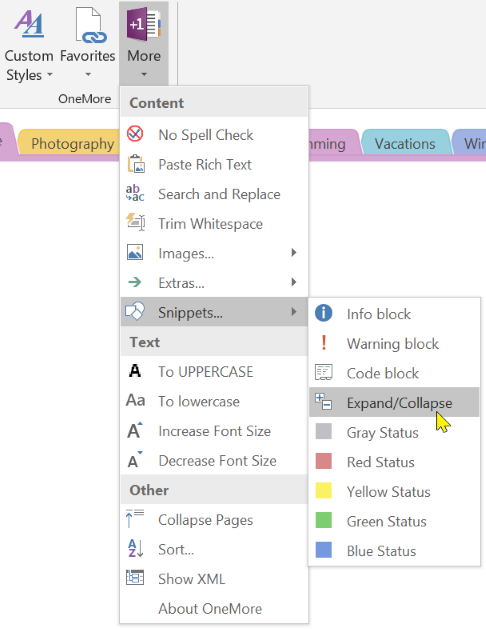
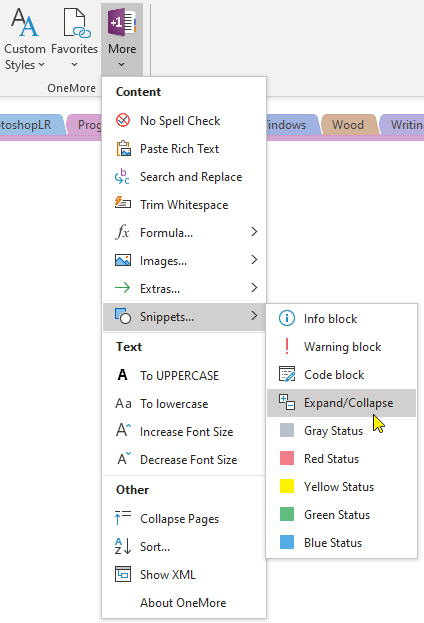
add screenshots, update version to 2.8

Changed region(s): [[0.0, 0.0, 1.0, 1.0]]

diff --git a/AssemblyInfo.Shared.cs b/AssemblyInfo.Shared.cs
@@ -41,7 +41,7 @@ internal static partial class AssemblyInfo
 	 * NOTE - also update the version in the Setup project
 	 * by clicking on the Setup project node in VS and update its properties
 	 */
-	public const string Version = "2.7.4";
+	public const string Version = "2.8";
 
 
 	public const string FileVersion = Version;

diff --git a/README.md b/README.md
@@ -7,6 +7,7 @@ A OneNote add-in with powerful yet simple and effective features including:
 * [Apply a style](#styles) to selected text or all custom styles to the current page with one click
 * Disable **spell-check** on the current page
 * Manage menu of [**Favorites**](#favorites) for one-click link to your most referenced pages
+* [Calculate formulas](#formulas) in tables such as Sum, Average, Min, Max, and StdDev
 * [Paste Rich Text](#exCodeBox) (preserve colors when **pasting code** from Visual Studio)<sup>1</sup>
 * [**Search and replace**](#other) text on the current page
 * Merge pages, preserving formatting and position of outlines
@@ -244,6 +245,29 @@ indvidual favorites. Easy.
 | Favorites Menu |
 | -------------- |
 | ![Favorites Menu](Screenshots/FavoritesMenu.png) |
+
+
+<a name="formulas"></a>
+#### Formulas
+
+While you can insert an Excel table on a OneNote page, for simple calculations, OneMore offers
+a Formula menu that can apply formula to selected cells and calculate across rows or columns.
+
+First, select the cell or cells into which you want to add a formula. If multiple cells are
+selected, they must either be on the same row or in the same column. Then select the Add
+Formula command. The Formula dialog is displayed. Choose the direction, format, and function
+and click OK.
+
+The Recalculate command will recalculate all formulas in the selected table(s).
+
+The Highlight command will select all cells containing formulas so you know where you put them.
+
+The Delete command will remove a formula from the selected cell(s) but retain the values displayed
+in those cell.
+
+| Formula Menu | Formula Dialog |
+| ------------ | -------------- |
+| ![Formula Menu](Screenshots/FormulaMenu.png) | ![Formula Dialog](Screenshots/FormulaDialog.png) |
 
 
 <a name="other"></a>
